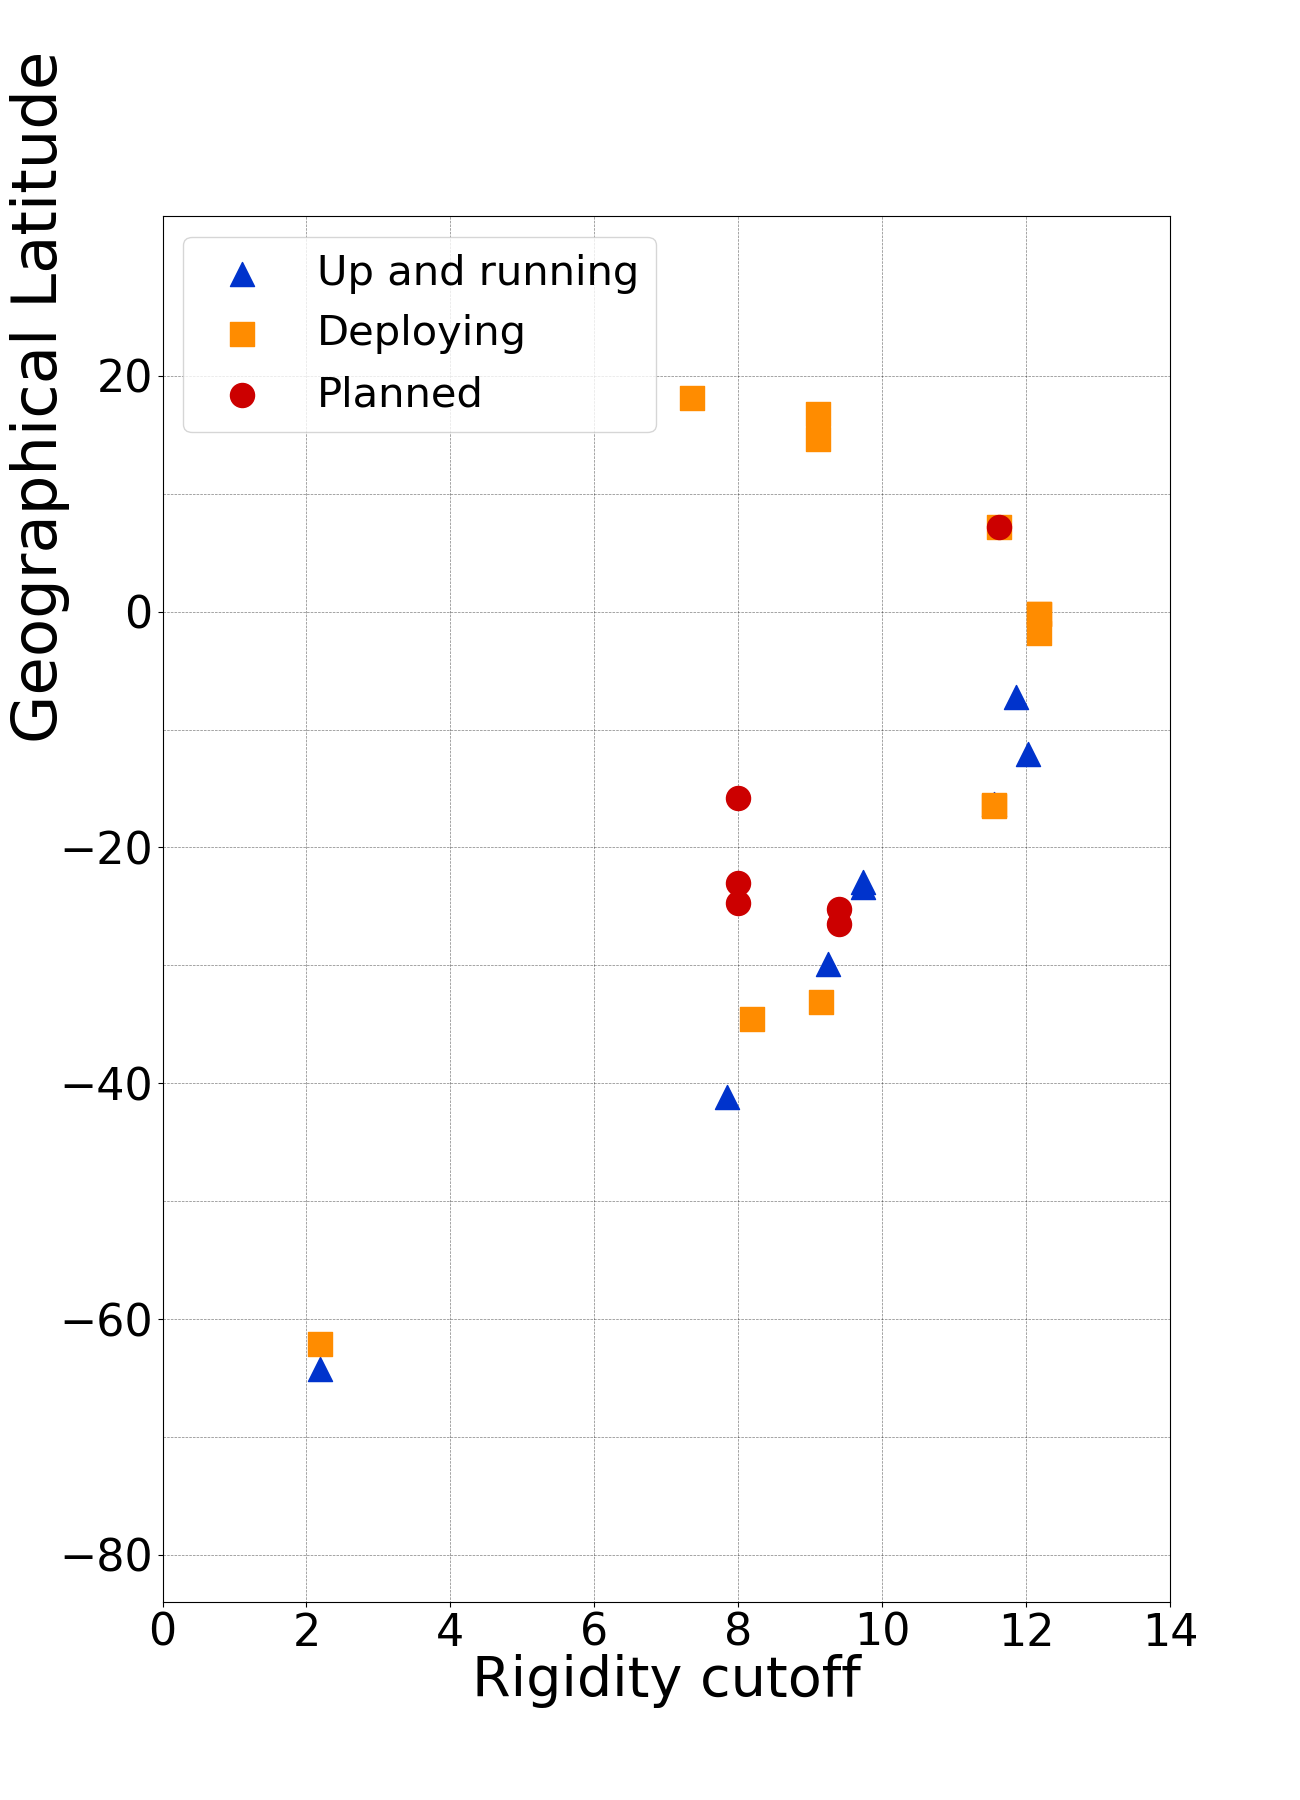
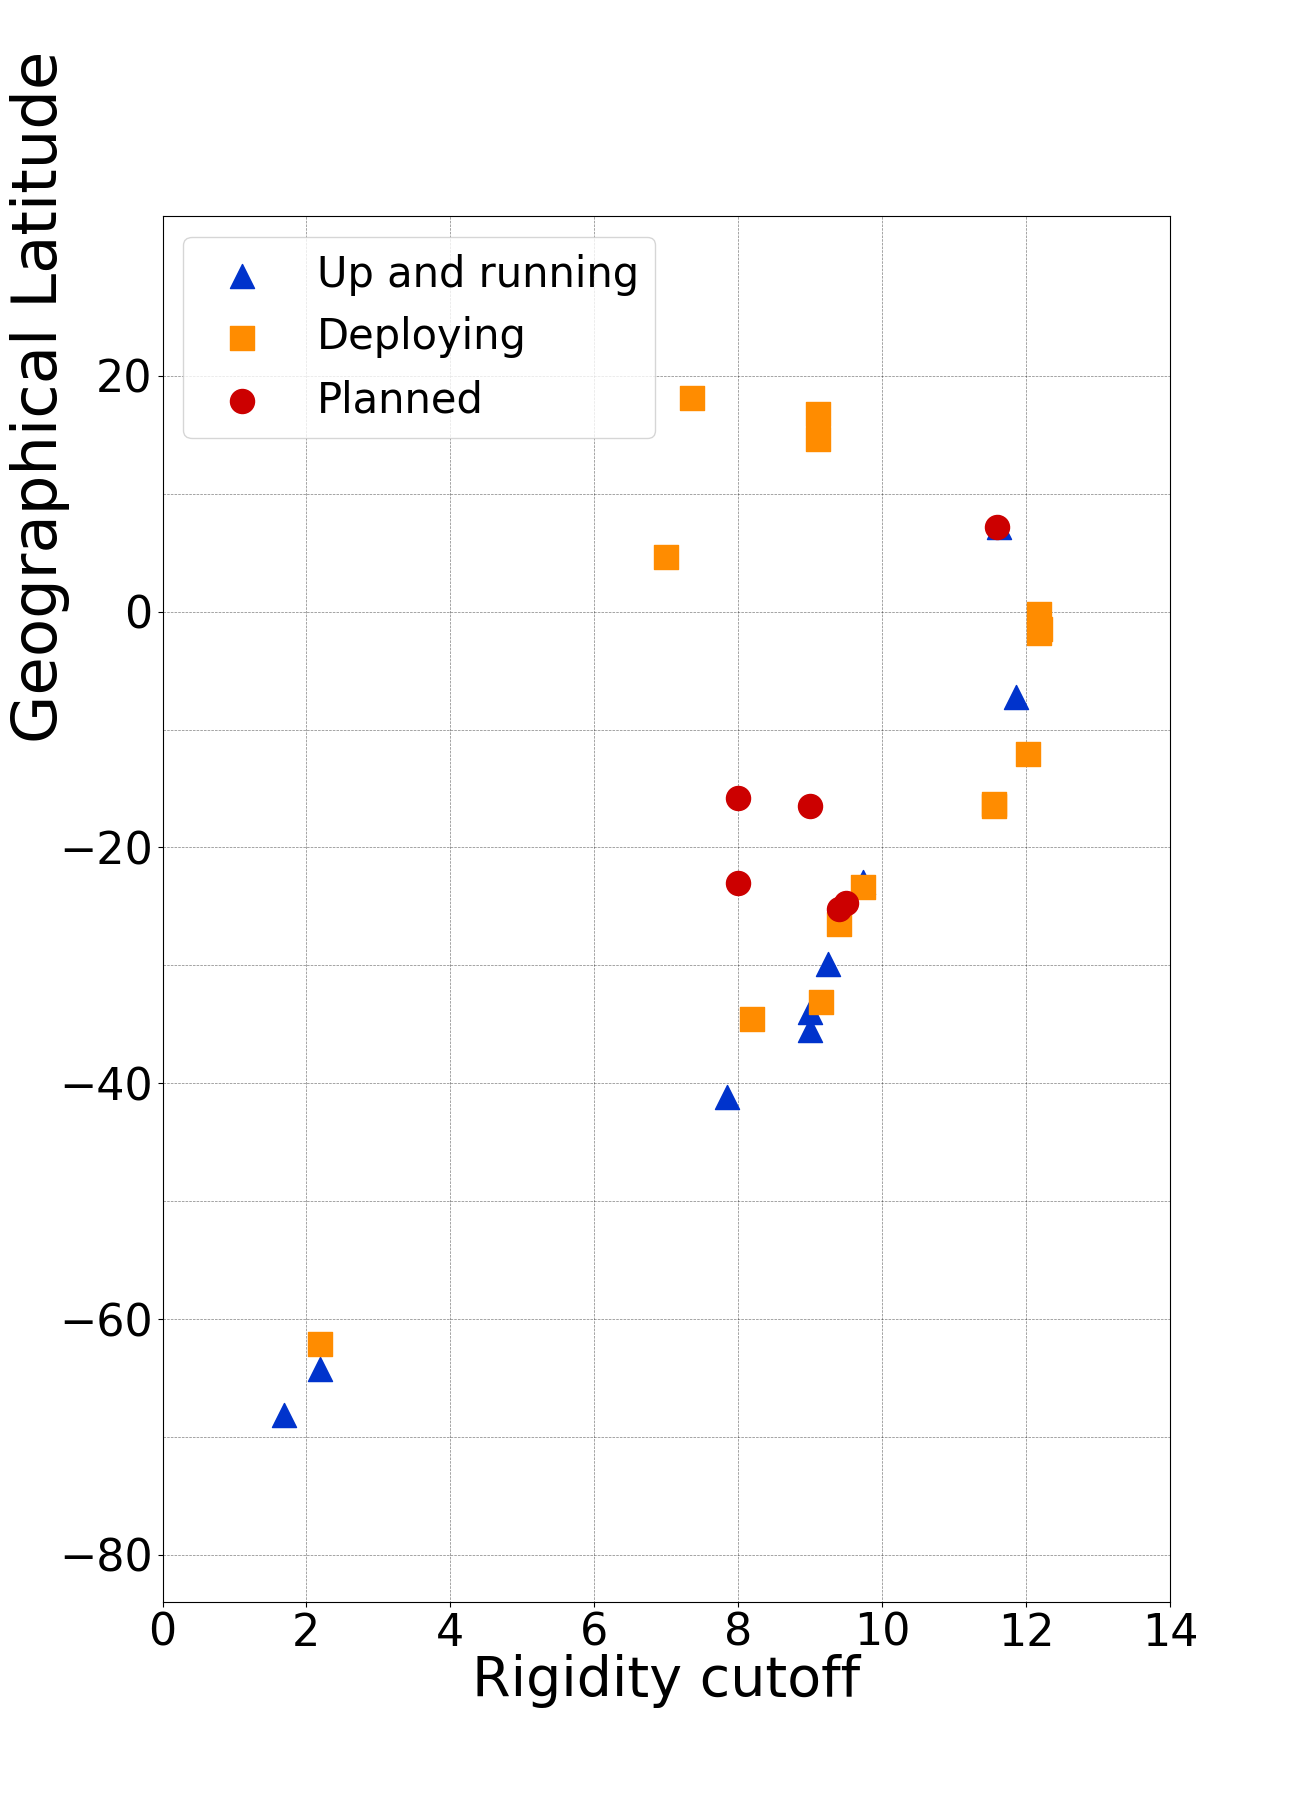
Madrid Added. New coordinates. Fonts and legends improved. Markers improved. RC maps are not needed anymore. Large and small maps produced

diff --git a/mapingLAGO/AutoMap.py b/mapingLAGO/AutoMap.py
@@ -4,7 +4,9 @@ import matplotlib.pyplot as plt
 import numpy as np
 
 ################ ignorar algun estado on,soon,uc desde el argumento ##
-ignore=[0,0,0]
+# uprunning, ongoing, planned, suspended, cancelled
+# suspended and cancelled ignored by default
+ignore=[0,0,0,1,1]
 for j in range(0,len(sys.argv)):
   if sys.argv[j]=='-uprunning':
      ignore[0]=1
@@ -12,21 +14,30 @@ for j in range(0,len(sys.argv)):
     ignore[1]=1
   if sys.argv[j]=='-planned':
     ignore[2]=1
-ig=ignore[0]+ignore[1]+ignore[2]
+  if sys.argv[j]=='-suspended':
+    ignore[3]=0
+  if sys.argv[j]=='-cancelled':
+    ignore[4]=0
 
-if ig==3:
+ig=ignore[0]+ignore[1]+ignore[2]+ignore[3]+ignore[4]
+
+if ig==5:
   sys.exit("ERROR--IGNORANDO TODO!!!")
   
 ##################### define el marker y color segun el estado #######
 
 def estatus(x):
-  status=(0,0)
-  if x=='uprunning':
+  status=(0, 0)
+  if x == 'uprunning':
     status=('^','#0033CC')
-  elif x=='ongoing':
+  elif x == 'ongoing':
     status=('s','#FF8C00')
-  elif x=='planned':
+  elif x == 'planned':
     status=('o','#CC0000')
+  elif x == 'suspended':
+    status=('-','#CCCC00')
+  elif x == 'cancelled':
+    status=('x','#CCCCCC')
   else:
     print (x)
     sys.exit("ERROR--ESTAUS DE SITIO NO VALIDO!!!")
@@ -40,7 +51,20 @@ files=open('misdatos.dat')
 
 
 #### genera mapa basico  #################################################
-map = Basemap(projection='cyl',llcrnrlat=-84,urcrnrlat=33.56,llcrnrlon=-118.25,urcrnrlon=-33.56,resolution='l')
+# map = Basemap(projection='cyl',llcrnrlat=-84,urcrnrlat=33.56,llcrnrlon=-118.25,urcrnrlon=-33.56,resolution='l')
+lowerleftlat=-75
+lowerleftlon=-110
+upperrightlat=+55
+upperrightlon=+20
+
+map = Basemap(
+  projection='cyl',
+  llcrnrlat=lowerleftlat,
+  llcrnrlon=lowerleftlon,
+  urcrnrlat=upperrightlat,
+  urcrnrlon=upperrightlon,
+  resolution='l'
+)
 plt.figure(figsize=(13,18))
 
 map.drawcoastlines(linewidth=.5)
@@ -81,47 +105,76 @@ for line in files:
   if ig>0:
     if ignore[0]>0 and row[4]=='uprunning': #ignora on
       continue
-    if ignore[1]>0 and row[4]=='ongoing':#ignora soon
+    if ignore[1]>0 and row[4]=='ongoing':#ignora ongoing
       continue
     if ignore[2]>0 and row[4]=='planned': #ingnora uc
-      #print row[0],ignore
       continue
-  if row[0][0]=='#':
+    if ignore[3]>0 and row[4]=='suspended':#ignora suspended
+      continue
+    if ignore[4]>0 and row[4]=='cancelled':#ignora cancelled
+      continue
+  if row[0][0] == '#':
     continue
-  if row[1]=='':
-    continue
-  cont+=1
-  lat=float(row[2])
-  lon=float(row[3])
+  cont += 1
+  lat = float(row[2])
+  lon = float(row[3])
   tatus=estatus(row[4]) # determina color y marker segun estatus
-  x,y = map(lon,lat)
-  map.scatter(x,y,marker=tatus[0],facecolor=tatus[1][0:7],s=150,zorder=10)#grafica los puntos
-  #print row[0], x,xaux, y,yaux
-  cornu=crosletras(y,yaux,x,xaux,len(row[1]),cont)
-  #print crosletras(y,yaux,x,xaux,len(row[1]),cont)
-  m=((-1)**(cont))
-  plt.text(-117,13-(2.6*cont),str(cont)+' = '+row[0]+' ('+str(int(float(row[1])))+' m)',color='w',fontsize=17,zorder=10, fontweight='bold')#grafica la leyenda que numero-lugar en blanco a la derecha
-  if cont==5 or cont==14:
-    plt.text(x+(m*3.5)-((0.5+(cont/10))*m)+m*(cont/10)-1.2,y-2,str(cont),color='black',fontsize=12,zorder=15,fontweight='bold')# grafica los nuero 5 y 14 mas cerca de los marker esto tal vez de ba quitarse ###############
-    continue
+  x, y = map(lon, lat)
 
-  plt.text(x+(m*3)-((0.5+(cont/10))*m)+m*(cont/10)-1.2,y-0.5,str(cont),color='black',fontsize=12,zorder=15,fontweight='bold')# grafica numeros impares a la izquierda del marker y pares a la derecha
+  map.scatter(
+    x,
+    y,
+    marker=tatus[0],
+    facecolor=tatus[1][0:7],
+    s=150,
+    zorder=10
+  )
+  # cornu=crosletras(y,yaux,x,xaux,len(row[1]),cont)
+# markers
+# grafica numeros impares a la izquierda del marker y pares a la derecha
+  m=((-1)**(cont))
+  plt.text(
+    x + (m * 3) - ((0.5 + (cont / 10)) * m) + m * (cont / 10) - 1.3,
+    y - 0.5,
+    ('0' if cont < 10 else '') + str(cont),
+    color='#000000',
+    fontsize=10,
+    zorder=15,
+    fontfamily='monospace',
+    fontweight='normal'
+  )
+
+# Leyenda
+  # plt.text(-117,13-(2.6*cont),str(cont)+' = '+row[0]+' ('+str(int(float(row[1])))+' m)',color='w',fontsize=17,zorder=10, fontweight='bold')#grafica la leyenda que numero-lugar en blanco a la derecha
+  plt.text(
+    -30.0 , 
+    +25.0 - (2.9 * cont), 
+    ('0' if cont < 10 else '') + str(cont) + '. ' + row[0] + ' ('+str(int(float(row[1])))+' m)', 
+    zorder=10, 
+    color='#ffffff', 
+    fontsize=15, 
+    fontfamily='monospace',
+    fontweight='bold'
+  )
+
 
 ##################### genera etiquetas para la leyenda superior sobre los puntos##############################
 xi=23
 yi=23
+fs=150
 xi,yi=map(lon,lat)
 if ignore[0]==0:
-  plt.scatter(xi,yi,marker='^',s=200,color='#0033CC',label='Stable')
+  plt.scatter(xi, yi, marker='^', s=fs, color='#0033CC', label='LAGO Site')
 if ignore[2]==0:
-  plt.scatter(xi,yi,marker='s',s=200,color='#FF8C00',label='Deploying')
+  plt.scatter(xi, yi, marker='s', s=fs, color='#FF8C00', label='Deploying')
 if ignore[1]==0:
-  plt.scatter(xi,yi,marker='o',s=200,color='#CC0000',label='Planned')
-lg = plt.legend(loc='upper right', fontsize=26,scatterpoints=1)
-lg.get_frame().set_alpha(.8) # A little transparency
-
+  plt.scatter(xi, yi, marker='o', s=fs, color='#CC0000', label='Planned')
+if ignore[3]==0:
+  plt.scatter(xi, yi, marker='x', s=fs, color='#CCCC00', label='Suspended')
+if ignore[4]==0:
+  plt.scatter(xi, yi, marker='-', s=fs, color='#CCCCCC', label='Cancelled')
+lg = plt.legend(loc='upper left', fontsize=20, scatterpoints=1)
+lg.get_frame().set_alpha(.6) # A little transparency
 
 os.system("rm misdatos.dat")
 plt.savefig('lagoplano.png',dpi=300,bbox_inches='tight', pad_inches = 0)
-
-#plt.show()

diff --git a/LAGOmapa-sitios.py b/LAGOmapa-sitios.py
@@ -4,29 +4,6 @@ import matplotlib.pyplot as plt
 import matplotlib.image as mpimg
 import numpy as np
 
-def logo():
-    print (" \n\n\n ")
-    print ("      ___       ___           ___           ___")
-    print ("     /\__\     /\  \         /\  \         /\  \ ")
-    print ("    /:/  /    /::\  \       /::\  \       /::\  \ ")
-    print ("   /:/  /    /:/\:\  \     /:/\:\  \     /:/\:\  \ ")
-    print ("  /:/  /    /::\~\:\  \   /:/  \:\  \   /:/  \:\  \ ")
-    print (" /:/__/    /:/\:\ \:\__\ /:/__/_\:\__\ /:/__/ \:\__\ ")
-    print (" \:\  \    \/__\:\/:/  / \:\  /\ \/__/ \:\  \ /:/  / ")
-    print ("  \:\  \        \::/  /   \:\ \:\__\    \:\  /:/  / ")
-    print ("   \:\  \       /:/  /     \:\/:/  /     \:\/:/  / ")
-    print ("    \:\__\     /:/  /       \::/  /       \::/  / ")
-    print ("     \/__/ __ _\/__/__ _ _ __\/____   ___ _\/__/ ") 
-    print ("        | '_ ` _ \ / _` | '_ \| '_ \ / _ \ '__| ")
-    print ("        | | | | | | (_| | |_) | |_) |  __/ | ")
-    print ("        |_| |_| |_|\__,_| .__/| .__/ \___|_| ")
-    print ("                        | |   | | ")
-    print ("                        |_|   |_| ")
-    return
-
-
-
-logo()
 comand='python3 mapingLAGO/AutoMap.py '
 comand2='python3 SitiosAlturas/plotalturas3.py '
 
@@ -34,28 +11,25 @@ for i in range(1, len(sys.argv)):
   comand+=sys.argv[i]+' '
   comand2+=sys.argv[i]+' '
 
-
-  
-
-print  ("\n\n\ngenerando mapa..... ")
+print  ("generando mapa..... ")
 os.system(comand) 
-print ("\n\n\ngenerando curva de alturas... \n\n\n")
-os.system(comand2)
+print  ("reduciendo mapa..... ")
+os.system('convert lagoplano.png -scale 25% lagoplano_small.jpg')
+# print ("\n\n\ngenerando curva de alturas... \n\n\n")
+# os.system(comand2)
 
-fig = plt.figure()
-gs = gridspec.GridSpec(1, 2, width_ratios=[1, 1.2],left=None,bottom=None,right=None,top=None,wspace=.005,hspace=.005)
+# fig = plt.figure()
+# gs = gridspec.GridSpec(1, 2, width_ratios=[1, 1.2],left=None,bottom=None,right=None,top=None,wspace=.005,hspace=.005)
 
-ax1=plt.subplot(gs[0])
-ax1.set_axis_off()
-img = mpimg.imread('lagoplano.png')
-lum_img = img[:,:,:]
-imgplot = plt.imshow(lum_img)
+# ax1=plt.subplot(gs[0])
+# ax1.set_axis_off()
+# img = mpimg.imread('lagoplano.png')
+# lum_img = img[:,:,:]
+# imgplot = plt.imshow(lum_img)
 
-ax2=plt.subplot(gs[1])
-ax2.set_axis_off()
-img2 = mpimg.imread('alturas3.png')
-lum_img2 = img2[:,:,:]
-imgplot2 = plt.imshow(lum_img2)
-#plt.show()
-#plt.figure(figsize=(30,18))
-plt.savefig("MAPAtodo.png",dpi=600,bbox_inches='tight', pad_inches = 0)
+# ax2=plt.subplot(gs[1])
+# ax2.set_axis_off()
+# img2 = mpimg.imread('alturas3.png')
+# lum_img2 = img2[:,:,:]
+# imgplot2 = plt.imshow(lum_img2)
+# plt.savefig("MAPAtodo.png",dpi=72,bbox_inches='tight', pad_inches = 0)
